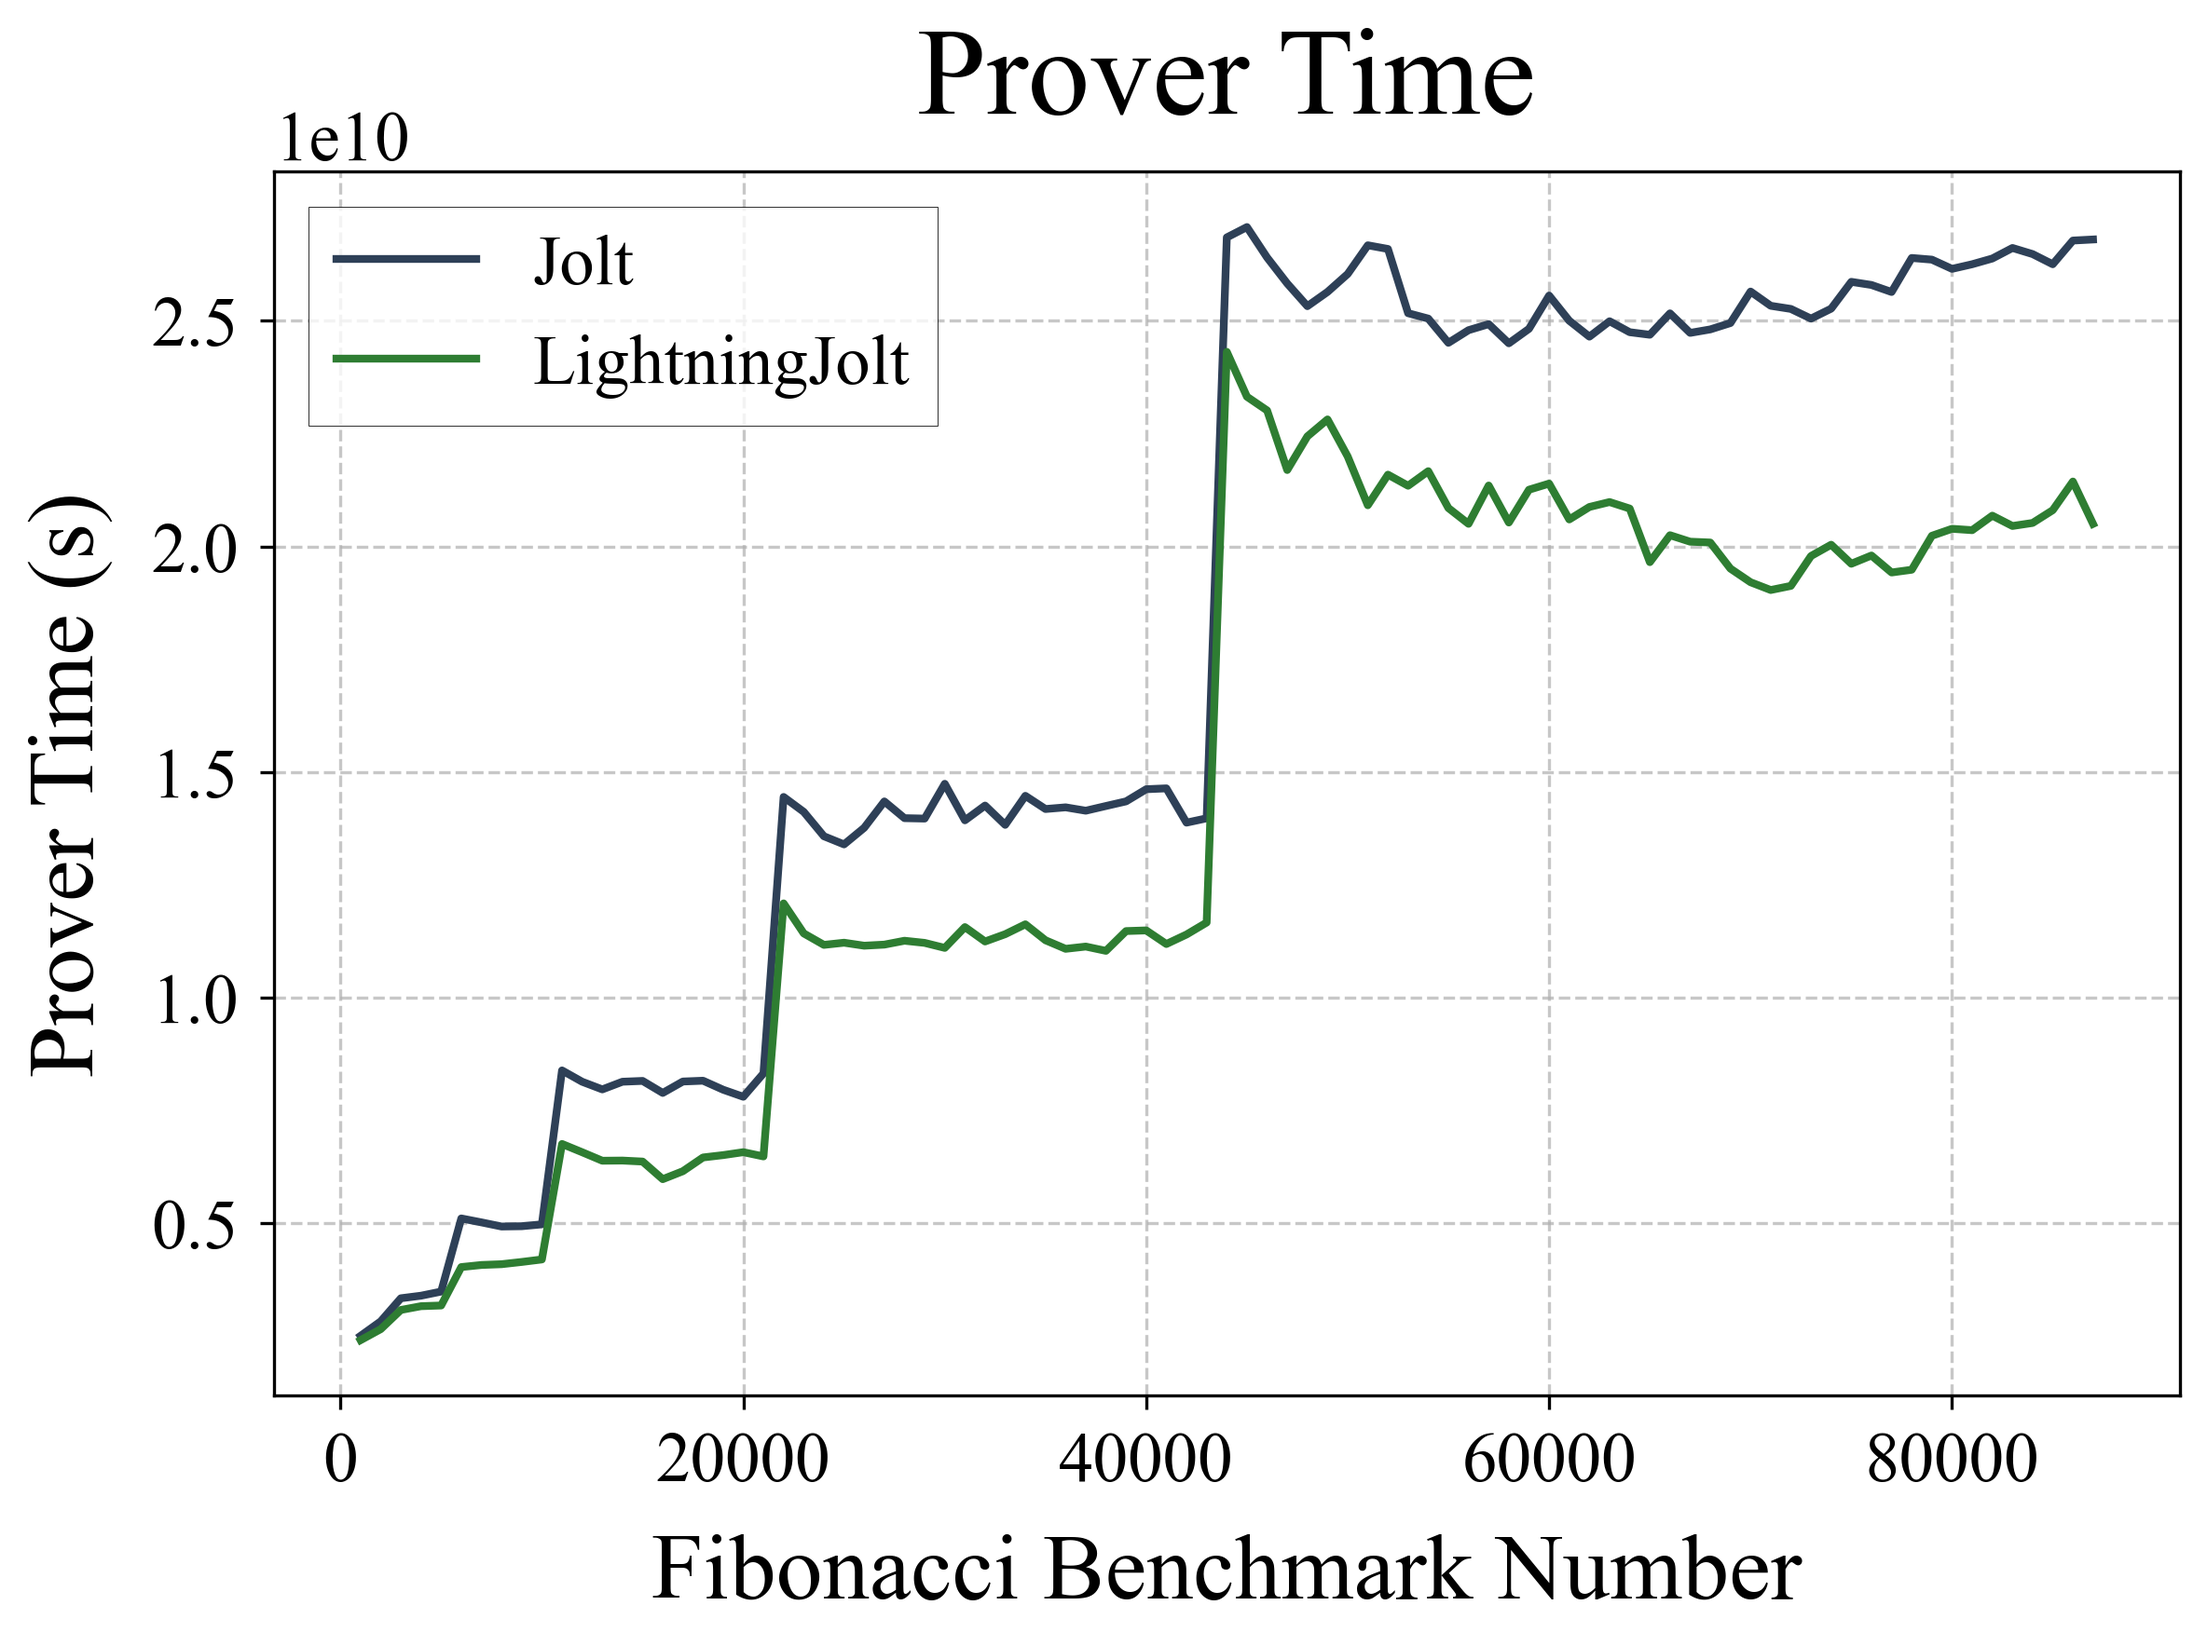
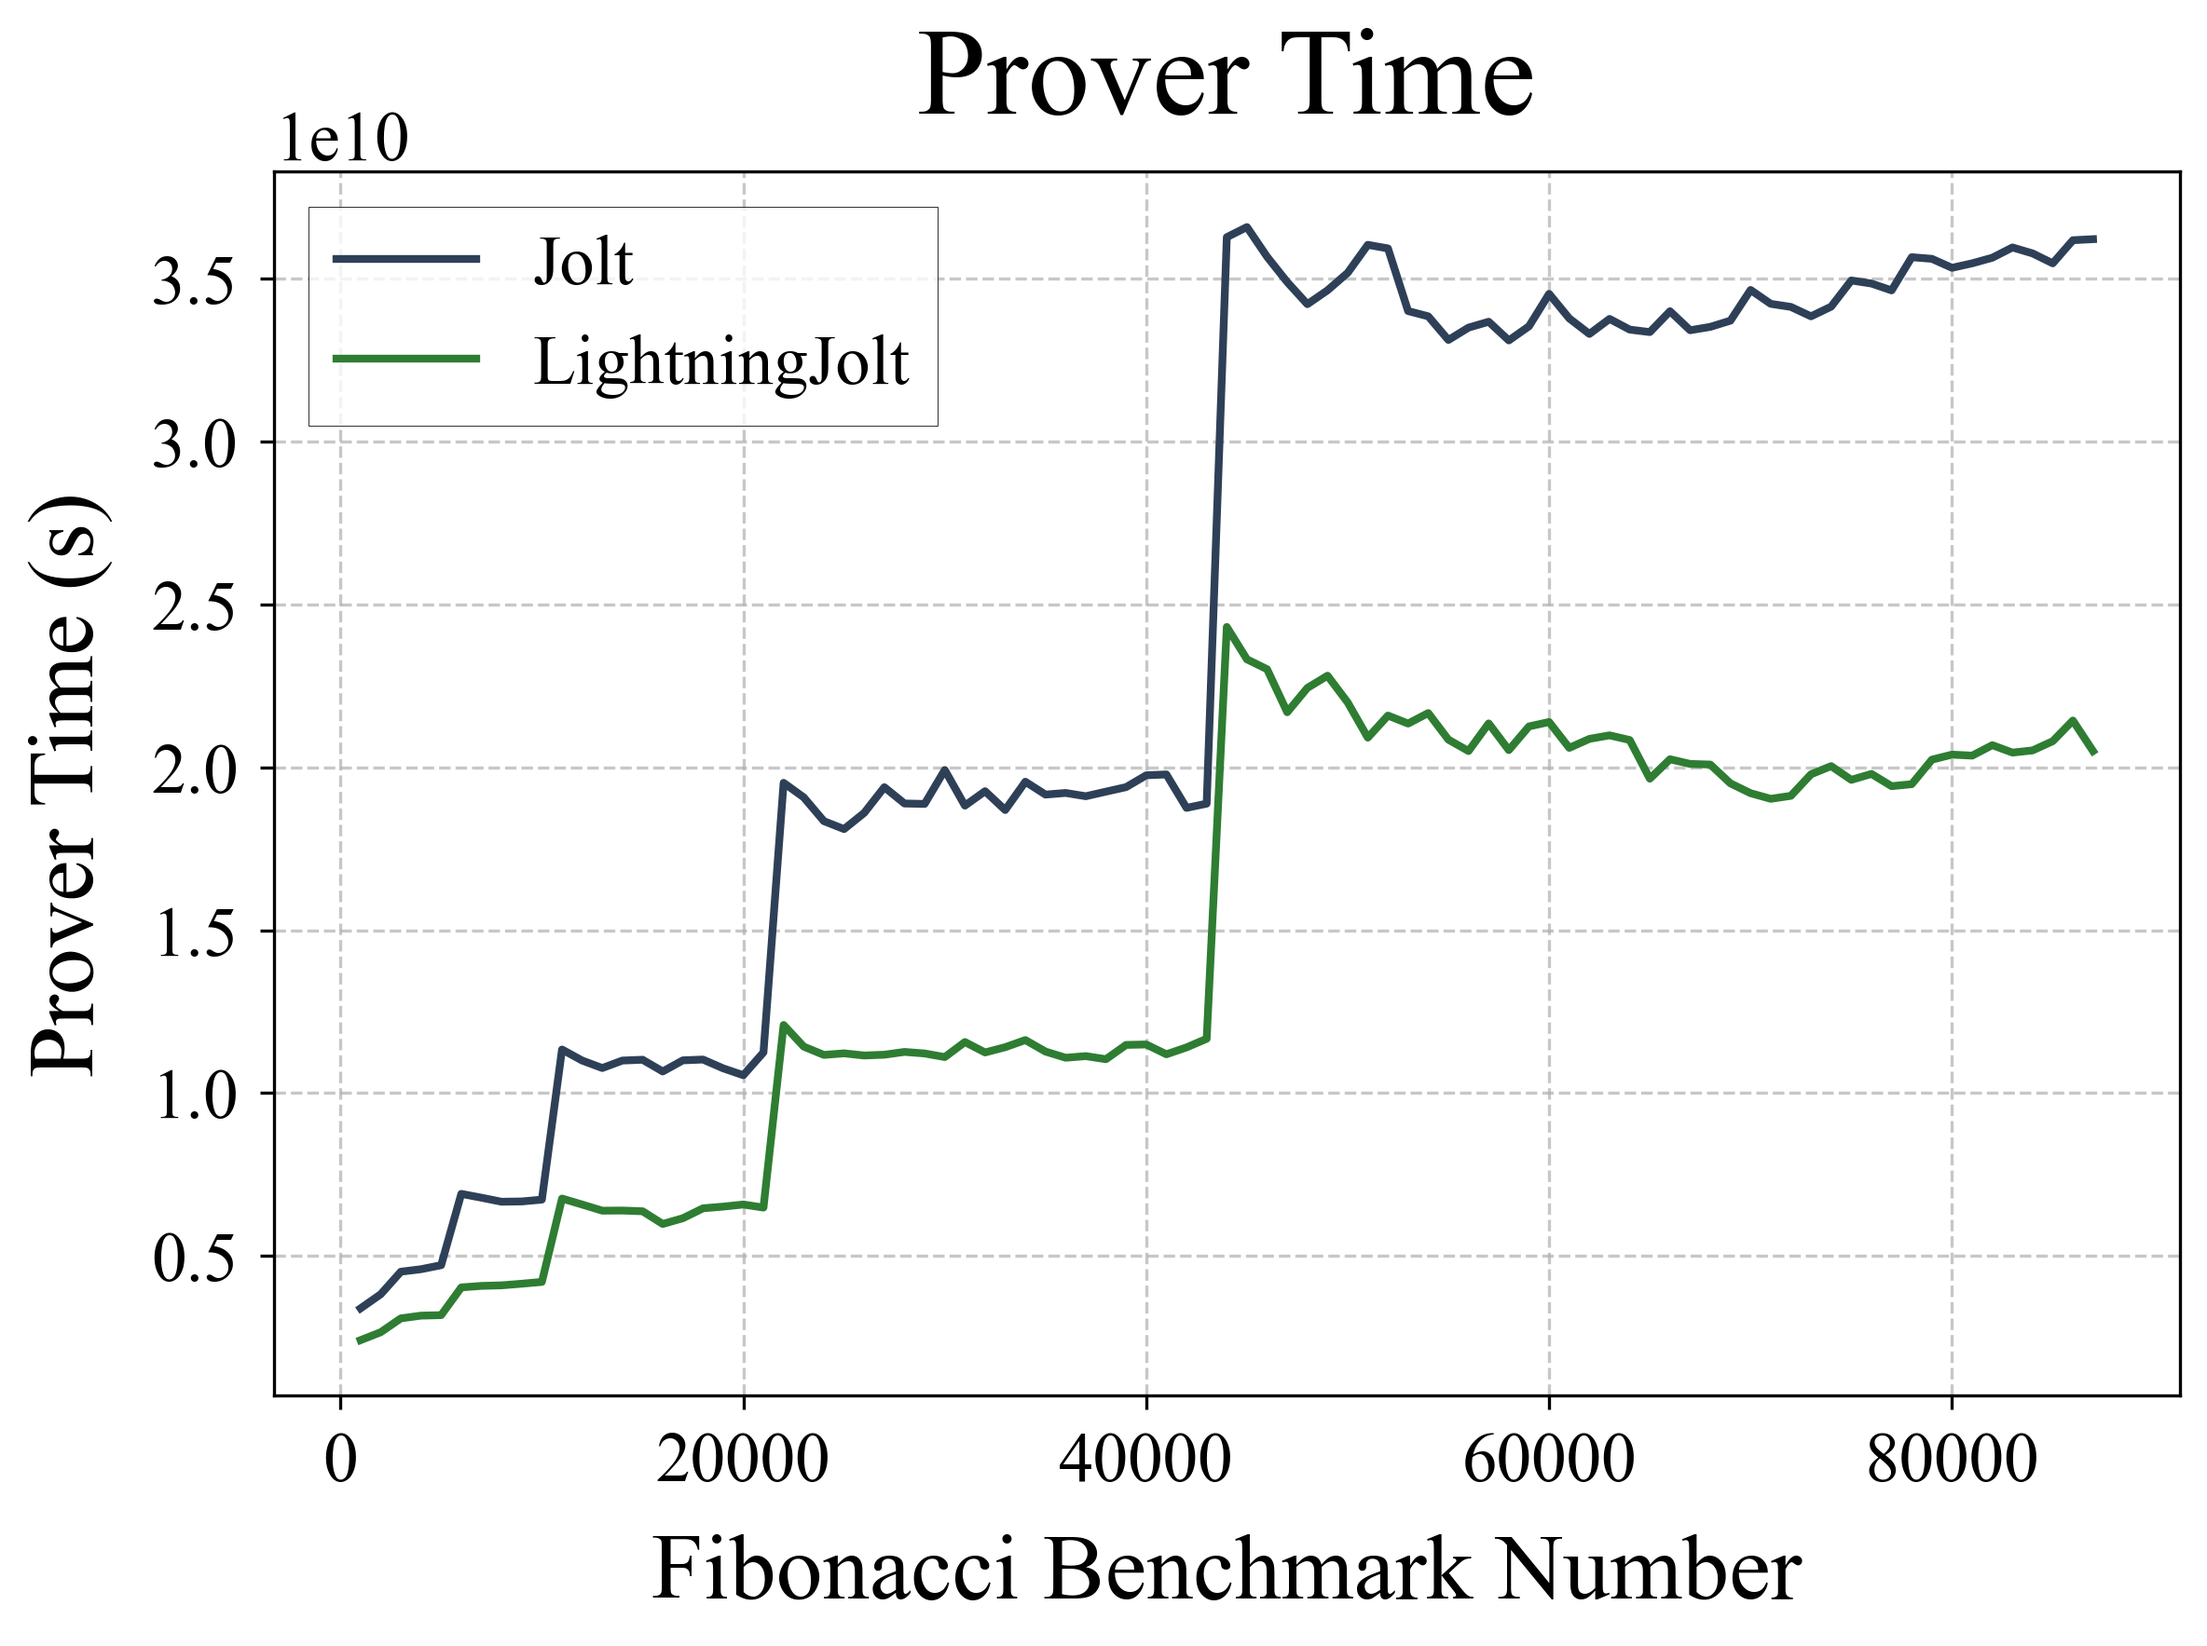
fix: file naming, cpu scaling

diff --git a/plot/prove-large/plotter.py b/plot/prove-large/plotter.py
@@ -28,7 +28,7 @@ with open(r1cs_file, 'r') as f:
 
 fig, ax = plt.subplots(figsize=(8, 6))
 omc_x = [point[0] for point in omc_data]
-omc_y = [point[1] for point in omc_data]
+omc_y = [point[1] * 5/3.7 for point in omc_data]
 r1cs_x = [point[0] for point in r1cs_data] 
 r1cs_y = [point[1] for point in r1cs_data]
 
